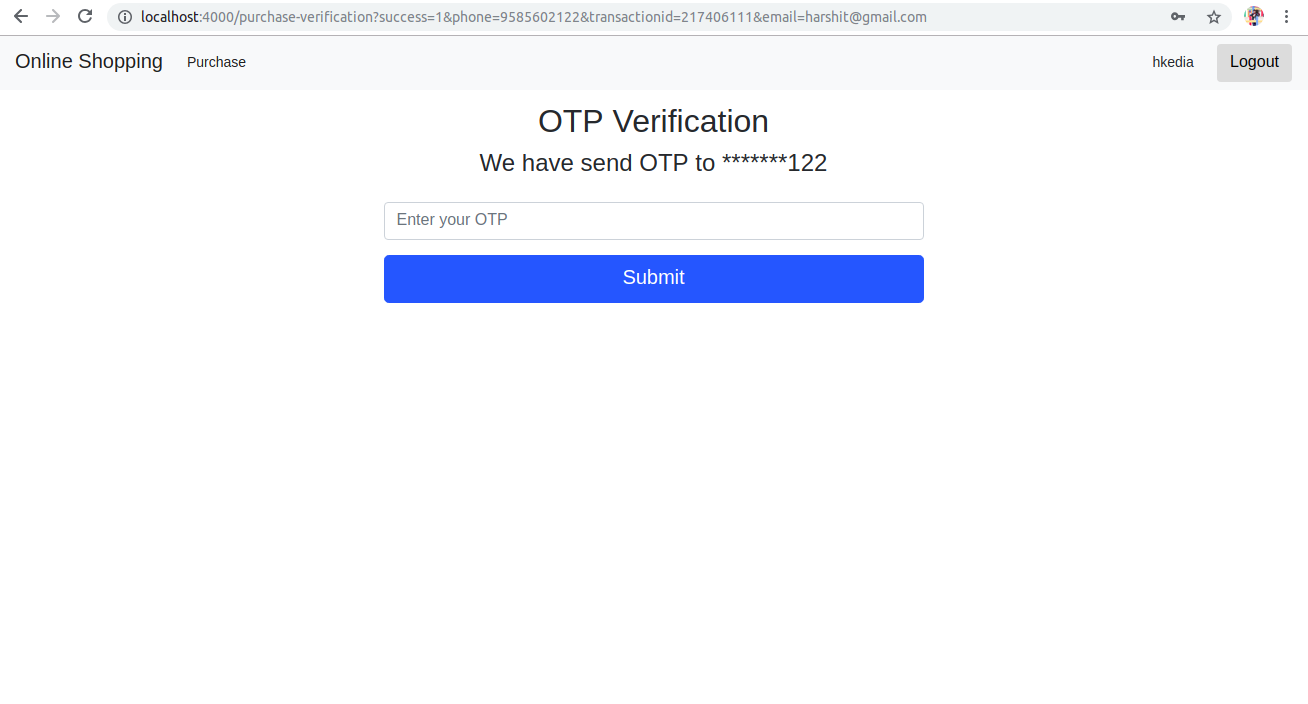
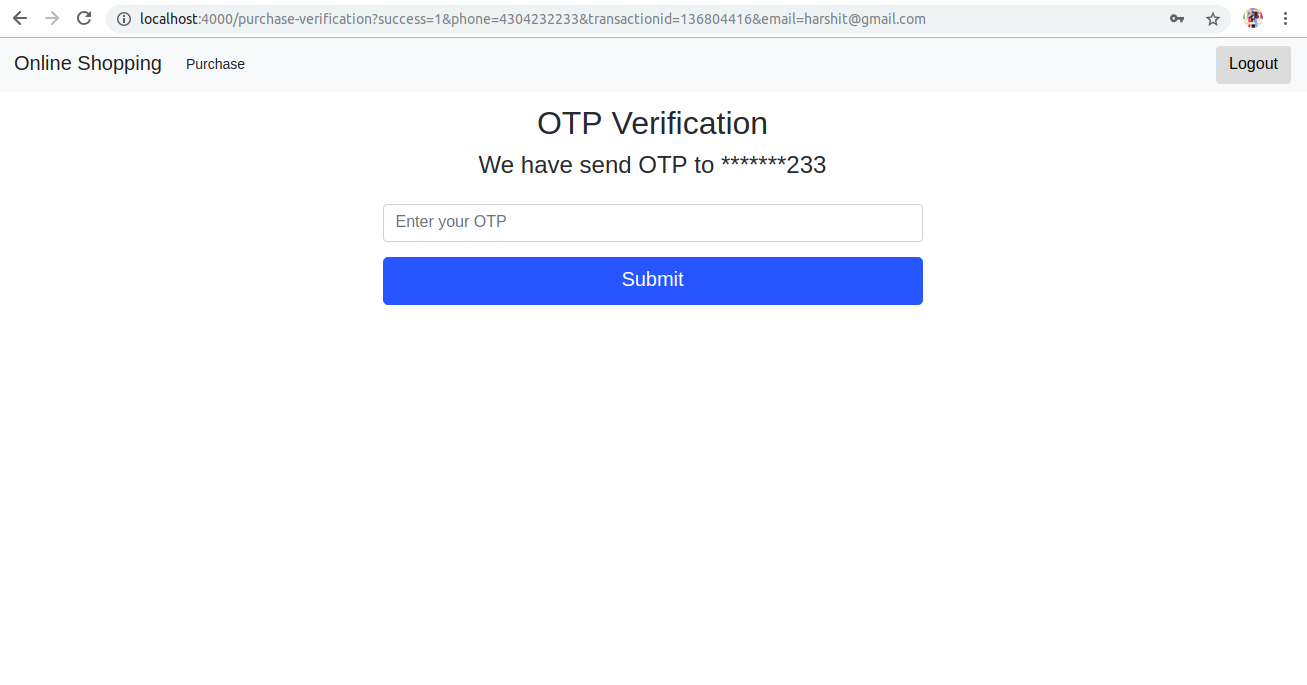
update readme

Changed region(s): [[0.2754, 0.1533, 0.7039, 0.4599], [0.0, 0.0, 0.7345, 0.1226], [0.8875, 0.0, 1.0, 0.1226]]

diff --git a/README.md b/README.md
@@ -28,7 +28,7 @@ It makes use of encryptions, digital signatures, and digital certificates to ach
 
 ![Purchase](/docs/screenshots/purchase.png)
 
-![Login](/docs/screenshots/login.png)
+![Login](/docs/screenshots/otp.png)
 
 Flowchart:
 
